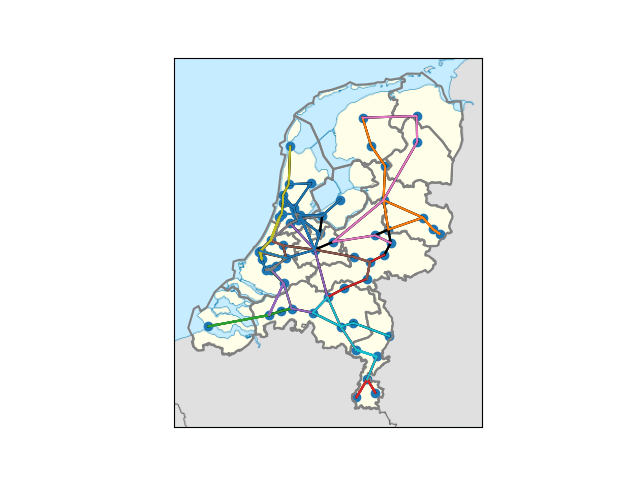
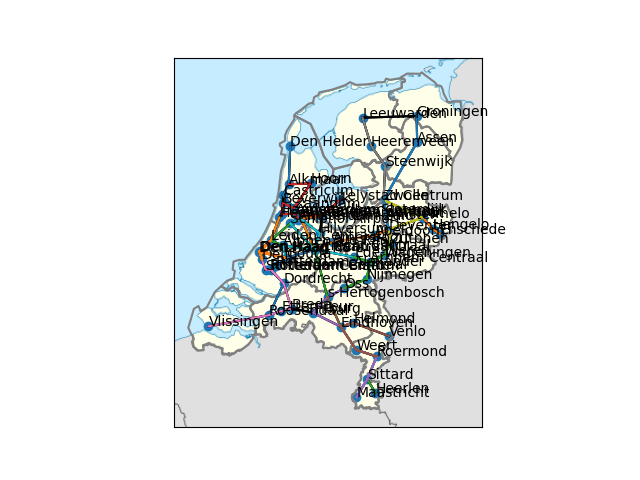
implementing greedy algorithm and changing mistakes

Changed region(s): [[0.3125, 0.2188, 0.8125, 0.8438]]

diff --git a/program/trajectory.py b/program/trajectory.py
@@ -117,6 +117,7 @@ class Train():
                 next = sorted_choices[0]
                 # if the connection has been visited before, remove from the list
                 self.check_time(next)
+            
         self.current_station.visit()
     
     def greedy_conns(self):
@@ -158,9 +159,15 @@ class Train():
                     elif con_count < min_con:
                         min_con = con_count
                         next = connection
+
+                    # probleem voor later, bias kiest de middelste optie het vaakst
+                    elif con_count == min_con:
+                        random_choice = [next, connection]
+                        next = random.choice(random_choice)
         
                 self.check_time(next)
-
+            print(self.name)
+            print(len(choices))
         self.current_station.visit()
 
     def check_time(self, connection: "Connection"):

diff --git a/program/visualisation.py b/program/visualisation.py
@@ -72,14 +72,14 @@ def visualize(network, trains, which_region = 'holland'):
             y_traj.append(station_coords[1])
         # plot the trajectory
         plt.plot(x_traj, y_traj)
-    
-    # # add names of the stations to the points
-    # for index, label in enumerate(names):
-    #     plt.annotate(label,(x[index], y[index]))
 
     # unzip the tuples and plot them
     x,y = zip(*coords)
     plt.scatter(x, y)
+        
+    # add names of the stations to the points
+    for index, label in enumerate(names):
+        plt.annotate(label,(x[index], y[index]))
         
     # save plot
     plt.savefig(save_plot)

diff --git a/program/algorithm.py b/program/algorithm.py
@@ -31,8 +31,8 @@ def run(which_regions = 'holland', start = 'random'):
             t = Train(f'train_{train_number}', n, which_regions, start)
             # choose which algorithm to use
             # t.greedy_time()
-            # t.greedy_conns()
-            t.connect_with_used()
+            t.greedy_conns()
+            # t.connect_with_used()
             # t.connect()
             trains.append(t.trajectory)
 

diff --git a/main.py b/main.py
@@ -6,7 +6,7 @@ from program.baseline import hist
 # create a network and run the algorithm
 # you can fill in 'nl' if you want to calculate trajectory for the whole netherlands
 # you can fill in 'min_con' if you want to start the trajectories at stations with minimal connections
-data_tuple = run('nl')
+data_tuple = run('nl', 'min_con')
 
 # save data from the run
 n = data_tuple[0]

diff --git a/program/greedy_conns.py b/program/greedy_conns.py
@@ -40,7 +40,7 @@ def greedy_conns(self):
     
             self.check_time(next)
 
-        self.current_station.visit()
+    self.current_station.visit()
 
         # add station to trajectory list and set as visited
         # if the connection has been visited before, remove from the list
